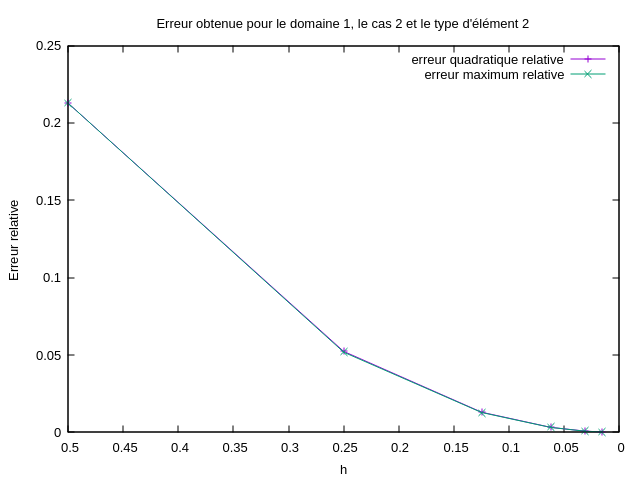
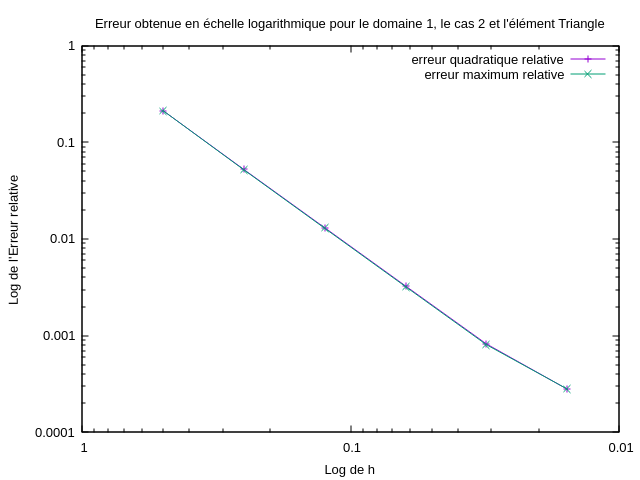
Graphes passage en echelle logarithmique

diff --git a/Resultats/plot.c b/Resultats/plot.c
@@ -16,14 +16,27 @@ int main() {
     int nucas = (impfch_Aff / 10) % 10;
     int typel = impfch_Aff%10;
 
+    char* nom_element;
+
+    if (typel == 1) {
+        nom_element = "Quadrangle";
+    }
+    else if (typel == 2) {
+        nom_element = "Triangle";
+    }
+    else {
+        nom_element = "Inconnu";
+    }
     /*popen lance gnuplot -persist (persist pour pas que le graph se ferme quand on ferme le fichier)
     et retourne un FILE* */
     FILE* plot = popen("gnuplot -persist", "w");
 
-    fprintf(plot, "set title 'Erreur obtenue pour le domaine %d, le cas %d et le type d''élément %d'\n", nudom, nucas, typel);
-    fprintf(plot, "set xlabel 'h'\n");
-    fprintf(plot, "set ylabel 'Erreur relative'\n");
+    fprintf(plot, "set title 'Erreur obtenue en échelle logarithmique pour le domaine %d, le cas %d et l''élément %s'\n", nudom, nucas, nom_element);
+    fprintf(plot, "set xlabel 'Log de h'\n");
+    fprintf(plot, "set ylabel 'Log de l''Erreur relative'\n");
     fprintf(plot, "set xrange [*:*] reverse\n");
+    fprintf(plot, "set logscale x\n");
+    fprintf(plot, "set logscale y\n");
 
     fprintf(plot, "plot '../Resultats/fort.%d' using 3:1 with linespoints title 'erreur quadratique relative',\
          '../Resultats/fort.%d' using 3:2 with linespoints title 'erreur maximum relative'\n", impfch_Aff,impfch_Aff);
